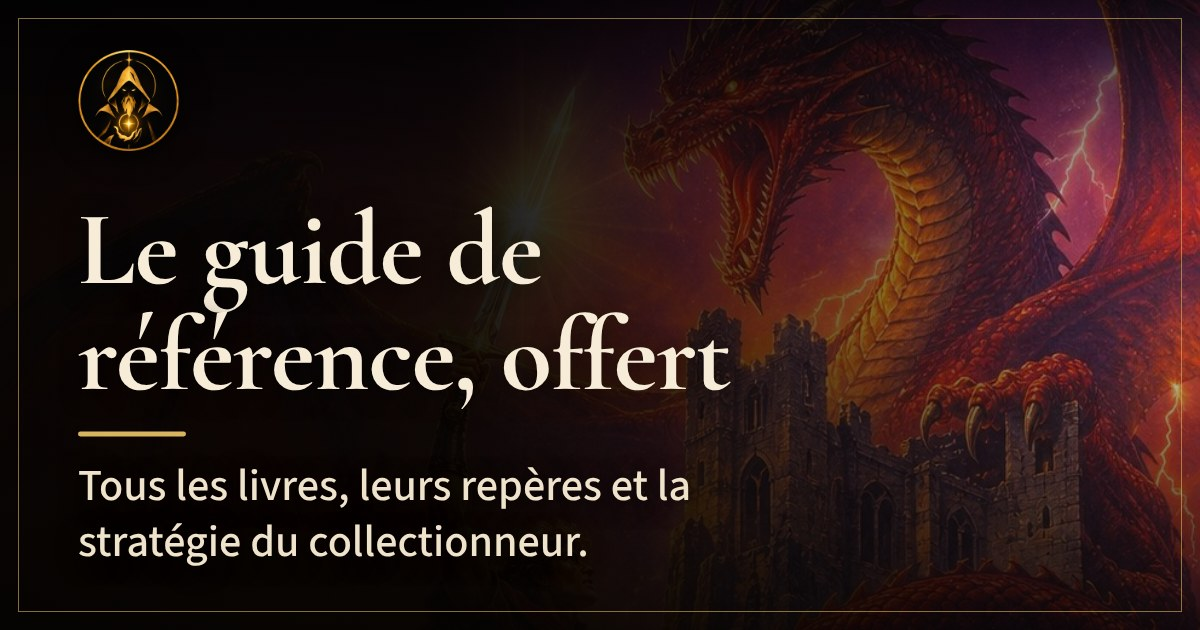
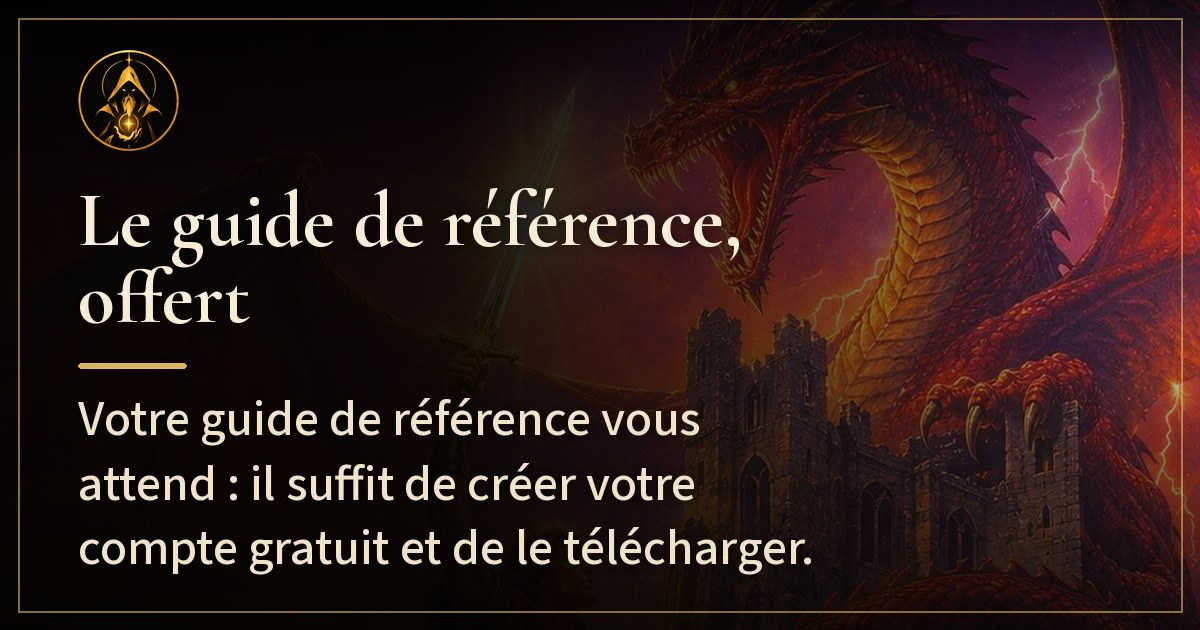
Images des nouvelles : titre moins gros, une phrase naturelle ; formulaire : phrase en langage naturel
Claude-Session: https://claude.ai/code/session_01HTe4GG8zQBr2ycdCYNMDrp

Changed region(s): [[0.0617, 0.3016, 0.6167, 0.7238], [0.0617, 0.7238, 0.6783, 0.9349]]

diff --git a/web/communaute.html b/web/communaute.html
@@ -104,7 +104,7 @@
     <h2 id="nouv-titre-dialogue">Créer une nouvelle</h2>
     <p class="sous">La page, les images, la carte de la Communauté et le flux RSS sont faits tout seuls. Make publie ensuite sur Facebook.</p>
     <div class="champ"><label for="nouv-titre">Titre (écrit en grand sur l'image)</label><input type="text" id="nouv-titre" required maxlength="80" autocomplete="off"></div>
-    <div class="champ"><label for="nouv-phrase">Phrase de l'image (sous le titre)</label><input type="text" id="nouv-phrase" required maxlength="140" autocomplete="off"></div>
+    <div class="champ"><label for="nouv-phrase">Phrase de l'image (une phrase naturelle, comme on parle)</label><input type="text" id="nouv-phrase" required maxlength="140" autocomplete="off"></div>
     <div class="champ"><label for="nouv-texte">Texte de l'article</label><textarea id="nouv-texte" required rows="9" maxlength="8000"></textarea>
       <p class="sous">Paragraphes séparés par une ligne vide. « ## Titre » pour une section, « - » pour une puce, « 1. » pour une étape, **gras**, [texte](adresse).</p></div>
     <div class="champ"><label for="nouv-facebook">Texte de la publication Facebook (facultatif)</label><textarea id="nouv-facebook" rows="5" maxlength="3000"></textarea></div>

diff --git a/pipeline/nouvelle.py b/pipeline/nouvelle.py
@@ -98,7 +98,7 @@ def _lignes(texte, police, largeur_max):
     sortie = []
     for bloc in texte.split("\n"):
         courante = ""
-        for mot in bloc.split():
+        for mot in [m for m in re.split(r"[ \t]+", bloc) if m]:          # seules les espaces ordinaires coupent : une espace insécable garde « 3 mois » ensemble
             essai = f"{courante} {mot}".strip()
             if police.getlength(essai) <= largeur_max or not courante:
                 courante = essai
@@ -130,17 +130,17 @@ def affiche(titre, phrase, fond, taille=(1200, 630)):
     im.alpha_composite(icone, (round(marge), round(L * 0.042)))
     # texte : le titre (et la phrase avec lui) rétrécit jusqu'à tenir dans l'image, sur trois lignes au plus
     dispo = H - (L * 0.042 + cote + L * 0.02) - L * 0.045
-    taille_titre = L * 0.088
+    taille_titre = L * 0.064
     while True:
-        taille_phrase = min(L * 0.037, taille_titre * 0.42)
+        taille_phrase = min(L * 0.042, taille_titre * 0.7)
         pt, pp = _police("titre", taille_titre), _police("texte", taille_phrase)
-        lignes_titre, lignes_phrase = _lignes(titre, pt, L * 0.66), _lignes(phrase, pp, L * 0.60)
+        lignes_titre, lignes_phrase = _lignes(titre, pt, L * 0.66), _lignes(phrase, pp, L * 0.62)
         h_titre = len(lignes_titre) * taille_titre * 1.0
         h_filet = L * 0.0038
         h_phrase = len(lignes_phrase) * taille_phrase * 1.28
         espace_haut, espace_bas = L * 0.02, L * 0.018
         bloc = h_titre + espace_haut + h_filet + espace_bas + h_phrase
-        if (len(lignes_titre) <= 3 and len(lignes_phrase) <= 4 and bloc <= dispo) or taille_titre <= L * 0.04:
+        if (len(lignes_titre) <= 3 and len(lignes_phrase) <= 5 and bloc <= dispo) or taille_titre <= L * 0.04:
             break
         taille_titre *= 0.94
     haut = max(H * 0.61 - bloc / 2, L * 0.042 + cote + L * 0.02)
